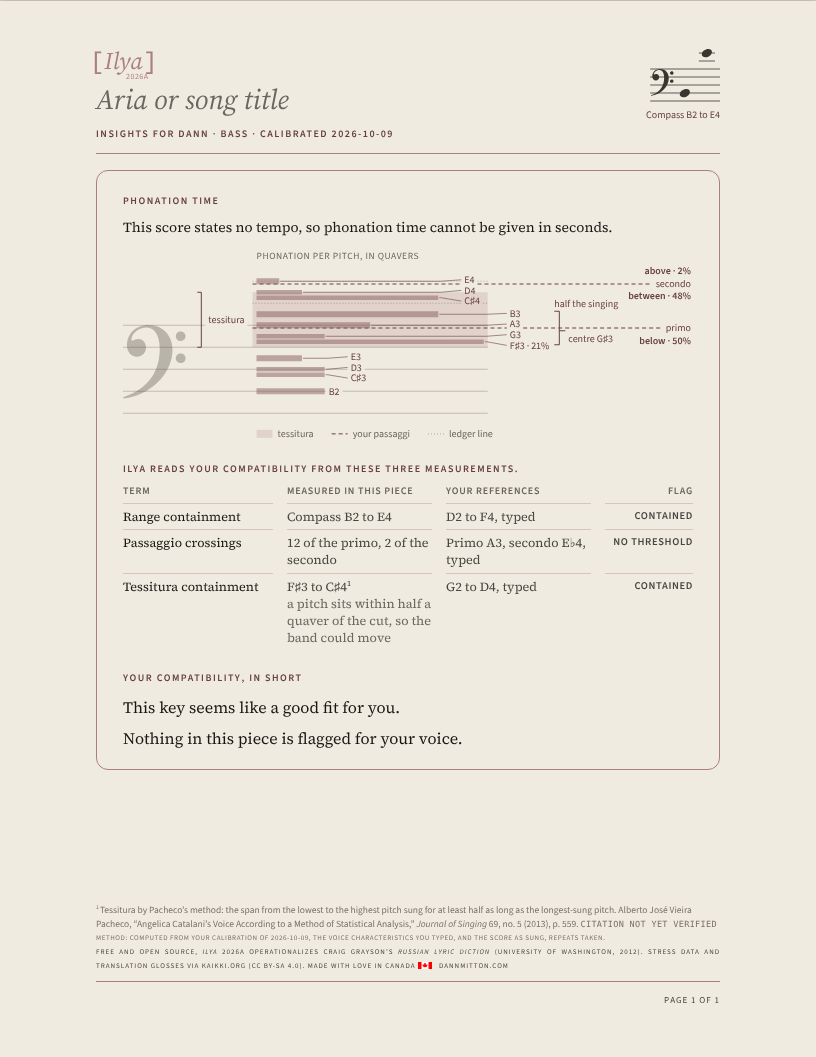
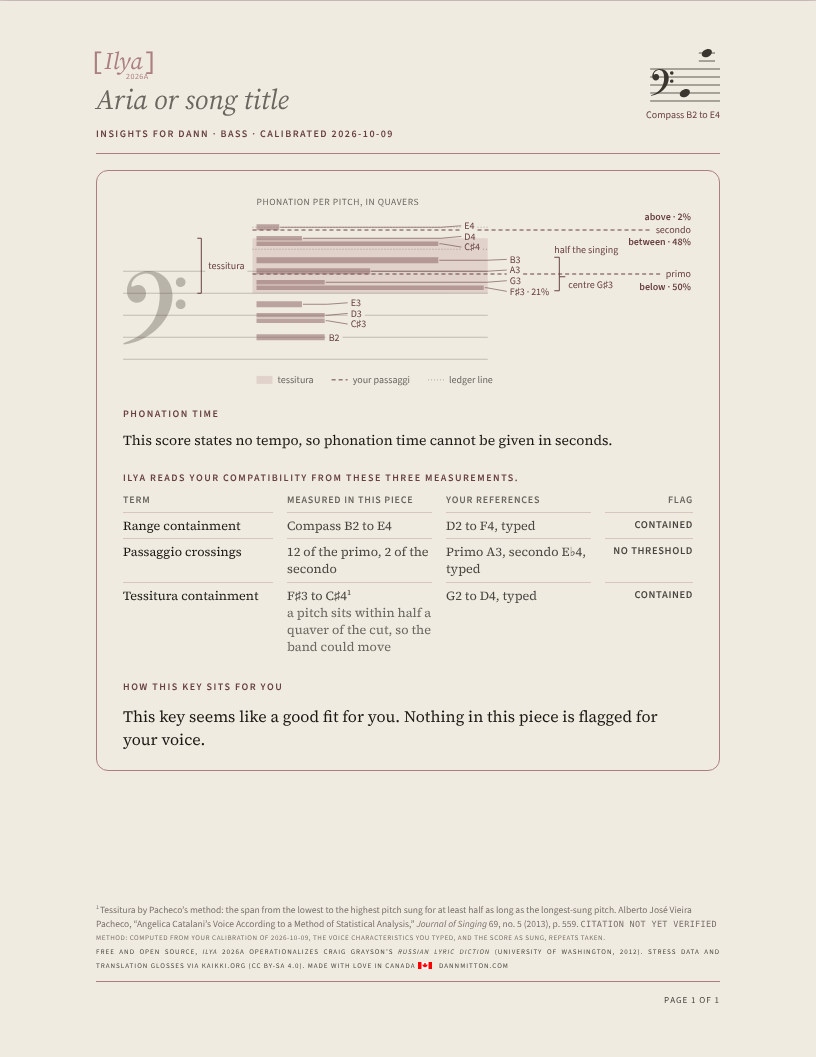
Insights: heading A; a doubtful bar no longer withholds a tessitura band it cannot move
The closing-verdict heading is « How this key sits for you » / « Comment cette
tonalité vous convient » (Dann's option A). The tessitura band is cut again under
every reading of each doubtful bar (as written, by fractions, by the metre, absent)
and prints when all agree, so Without Sun, no. 1 keeps its band despite bar 17.
Gates were running when this was committed; results follow.

Claude-Session: https://claude.ai/code/session_019P1MPvwcTrLUvq8BLtQkzW

Changed region(s): [[0.1532, 0.1873, 0.8578, 0.7181], [0.1532, 0.1873, 0.2757, 0.2185], [0.7966, 0.3122, 0.8578, 0.3434]]

diff --git a/apps/web/src/lib/insights/tessitura-robust.ts b/apps/web/src/lib/insights/tessitura-robust.ts
@@ -1,0 +1,73 @@
+/**
+ * Does one doubtful bar move the tessitura? (Dann, 2026-10-09: "I'm troubled
+ * that one bar's miscount disrupts our whole system for tessitura
+ * identification. Can't we lessen or obviate the impact of an anomalous bar?")
+ *
+ * Until now a single bar the metre contradicts withheld the whole band
+ * (`tessituraRow`), on the reasoning that Pacheco's cut can turn on half a
+ * quaver. That holds only where the cut does turn. Here the band is cut again
+ * under every reading of each doubtful bar the score itself offers:
+ *
+ *   1. as written, the notation reading `aggregatePhonation` chose;
+ *   2. as the parser's fractions give it;
+ *   3. as the time signature says it should be (the bar's pitches kept in the
+ *      same proportions, scaled to the metre);
+ *   4. the bar absent altogether, each doubtful bar alone and all together.
+ *
+ * The band stands only if every one of those cuts gives the same two ends. A
+ * bar the parser could not close has, by those readings, a length somewhere
+ * between nothing and what it asks, so a band the readings all agree on does
+ * not depend on the bar. Where any cut moves, the caller withholds as before.
+ *
+ * What this is not: a proof. Where the metre itself was misread (an OMR read
+ * that states 6/8 as 4/8), the true bar may lie outside these readings, and the
+ * page keeps naming the doubtful bars elsewhere (`untrustedMeasures`). Pure.
+ */
+import { aggregatePhonation, pachecoTessitura, type Fraction, type ParsedScore, type TessituraResult } from '@ilya/score-parser';
+
+const add = (a: Fraction, b: Fraction): Fraction => ({
+	numerator: a.numerator * b.denominator + b.numerator * a.denominator,
+	denominator: a.denominator * b.denominator,
+});
+const mul = (a: Fraction, b: Fraction): Fraction => ({ numerator: a.numerator * b.numerator, denominator: a.denominator * b.denominator });
+const ratio = (num: Fraction, den: Fraction): Fraction | null =>
+	den.numerator > 0 ? { numerator: num.numerator * den.denominator, denominator: num.denominator * den.numerator } : null;
+
+/**
+ * The band at the bars' written time, if and only if it is the same band under
+ * every reading above; otherwise undefined.
+ */
+export function bandStableUnderDoubt(score: ParsedScore, doubtful: ReadonlySet<number>): TessituraResult | undefined {
+	const totals = aggregatePhonation(score);
+	const trusted = aggregatePhonation({ ...score, vocalLine: score.vocalLine.filter((ev) => !doubtful.has(ev.measureIndex)) }).byPitch;
+	const bars = totals.trust.bars.filter((b) => doubtful.has(b.measureIndex));
+	const own = new Map(bars.map((b) => [b.measureIndex, aggregatePhonation({ ...score, vocalLine: score.vocalLine.filter((ev) => ev.measureIndex === b.measureIndex) }).byPitch]));
+
+	const bandWith = (factorOf: (bar: (typeof bars)[number]) => Fraction | null): TessituraResult | undefined => {
+		const combined = new Map<number, Fraction>(trusted);
+		for (const bar of bars) {
+			const f = factorOf(bar);
+			if (!f) continue;
+			for (const [midi, q] of own.get(bar.measureIndex)!) {
+				const scaled = mul(q, f);
+				combined.set(midi, combined.has(midi) ? add(combined.get(midi)!, scaled) : scaled);
+			}
+		}
+		return pachecoTessitura(combined);
+	};
+
+	const ONE: Fraction = { numerator: 1, denominator: 1 };
+	const written = bandWith(() => ONE);
+	if (!written) return undefined;
+	const readings: Array<(bar: (typeof bars)[number]) => Fraction | null> = [
+		(bar) => ratio(bar.fractionSum, bar.notationSum),
+		(bar) => (bar.expected ? ratio(bar.expected, bar.notationSum) : ONE),
+		() => null,
+		...bars.map((one) => (bar: (typeof bars)[number]) => (bar.measureIndex === one.measureIndex ? null : ONE)),
+	];
+	for (const reading of readings) {
+		const other = bandWith(reading);
+		if (!other || other.low !== written.low || other.high !== written.high) return undefined;
+	}
+	return written;
+}

diff --git a/apps/web/src/lib/insights/insights.test.ts b/apps/web/src/lib/insights/insights.test.ts
@@ -143,7 +143,10 @@ describe('N.127 the fit table', () => {
 		expect(m.verdict).toBe('outside-tessitura');
 	});
 
-	it('withholds the tessitura, and names the bar, when a measure does not add up', () => {
+	/* A DOUBTFUL BAR WITHHOLDS THE BAND ONLY WHERE IT COULD MOVE IT (Dann, 2026-10-09).
+	   The band is cut again with the bar at 0, a half, once, one and a half, and twice its
+	   written time, and prints only if it is the same band at every one. */
+	it('prints the tessitura, unchanged, when a measure does not add up but no misreading of it moves the band', () => {
 		// Bar 2's first note becomes a half by notation and three quarters by its
 		// parser fraction. The bar then sums to 5/4 one way and 6/4 the other:
 		// the readings disagree and neither closes 4/4.
@@ -153,6 +156,26 @@ describe('N.127 the fit table', () => {
 				: ev,
 		);
 		const m = buildInsights({ analysisScore: score(bad, 3), profile, watchList: null });
+		const clean = buildInsights({ analysisScore: score(line, 3), profile, watchList: null });
+		expect(m.phonation.untrustedMeasures).toEqual(['2']);
+		expect(m.tessitura.withheldFor).toBeNull();
+		expect(m.tessitura.measured?.low).toEqual(clean.tessitura.measured?.low);
+		expect(m.tessitura.measured?.high).toEqual(clean.tessitura.measured?.high);
+		expect(m.tessitura.flag).toBe(clean.tessitura.flag);
+	});
+
+	it('withholds the tessitura, and names the bar, when a misreading of that bar could move the band', () => {
+		// D3 sings 8 quavers in bar 1 and 8 in bar 3; bar 2 holds the only G3 and does not add up
+		// (5/4 by notation, 6/4 by fraction). With the bar absent the band is D3 alone; with it, D3 to G3.
+		const dd = (id: string, bar: number, pos: number) => note(id, bar, pos, P('D', 3));
+		const gg = (id: string, pos: number, d?: VocalLineEvent['duration']) => note(id, 1, pos, P('G', 3), d);
+		const bad = [
+			dd('a', 0, 0), dd('b', 0, 1), dd('c', 0, 2), dd('d', 0, 3),
+			gg('e', 0, { ...HALF, fraction: { numerator: 3, denominator: 4 } }), gg('f', 2), gg('g', 3), gg('x', 3),
+			dd('h', 2, 0), dd('i', 2, 1), dd('j', 2, 2), dd('k', 2, 3),
+		];
+		const m = buildInsights({ analysisScore: score(bad, 3), profile, watchList: null });
+		expect(m.phonation.untrustedMeasures).toEqual(['2']);
 		expect(m.tessitura.measured).toBeNull();
 		expect(m.tessitura.withheldFor).toEqual(['2']);
 		expect(m.tessitura.flag).toBeNull();

diff --git a/apps/web/src/lib/insights/insights.ts b/apps/web/src/lib/insights/insights.ts
@@ -42,6 +42,7 @@ import {
 	type VoiceProfileSnapshot,
 	type VowelForEvent,
 } from '@ilya/score-parser';
+import { bandStableUnderDoubt } from './tessitura-robust';
 import { centreOfGravity, cycleDose, halfMassBand, type CentreOfGravity, type CycleDose, type HalfMassBand } from './singing-measures';
 import type { WatchEntry, WatchKind, WatchList, WatchTransposition } from '$lib/analysis/watchlist';
 import { gateBand, gatedWatchList } from '$lib/analysis/gates';
@@ -354,9 +355,14 @@ function tessituraRow(
 
 	/* TRUST FIRST. `aggregatePhonation` includes an untrusted bar's time in
 	   `byPitch` and says so rather than dropping it. The band is cut from
-	   those durations, so a band built on a bar the metre contradicts is not
-	   printed, and the row names the bars instead (brief §5). */
-	if (totals.trust.untrustedBars > 0) {
+	   those durations, so a band that a bar the metre contradicts could move is
+	   not printed, and the row names the bars instead (brief §5). A bar that
+	   cannot move it does not withhold it (Dann, 2026-10-09): the band is cut
+	   again with each doubtful bar at 0 to twice its written time, and prints
+	   only if it is the same band at every one (`tessitura-robust.ts`). */
+	const doubtful = totals.trust.untrustedBars > 0 ? new Set(totals.trust.untrustedMeasureIndices) : null;
+	const stable = doubtful ? bandStableUnderDoubt(score, doubtful) : undefined;
+	if (doubtful && !stable) {
 		return {
 			measured: null,
 			withheldFor: totals.trust.untrustedMeasureIndices.map((i) => measureNumber(score, i)),
@@ -365,7 +371,7 @@ function tessituraRow(
 		};
 	}
 
-	const band = pachecoTessitura(totals.byPitch);
+	const band = stable ?? pachecoTessitura(totals.byPitch);
 	if (!band) return { measured: null, withheldFor: null, reference, flag: null };
 
 	/* SPELLED AS THE SCORE SPELLS IT. The band's ends are MIDI numbers, and a

diff --git a/apps/web/src/lib/i18n.ts b/apps/web/src/lib/i18n.ts
@@ -1621,8 +1621,9 @@ const strings: Record<string, Record<Language, string>> = {
 	'insights.flag.below':         { en: 'Below',                        fr: 'En dessous' },
 	'insights.flag.wider':         { en: 'Wider',                        fr: 'Plus large' },
 	'insights.flag.noThreshold':   { en: 'No threshold',                 fr: 'Aucun seuil' },
-	// The closing verdict's heading, ratified by Dann 2026-10-09 01:47 in both languages (`docs/memory/OPEN.md`, "THE INSIGHTS PAGE, REARRANGED").
-	'insights.verdict.heading':    { en: 'Your compatibility, in short', fr: 'Votre compatibilité, en bref' },
+	// The closing verdict's heading. "Your compatibility, in short" (ratified 2026-10-09 01:47) was replaced the same morning
+	// for a warmer register: Dann chose option A of three, English and French, 2026-10-09 (`docs/memory/OPEN.md`, "THE INSIGHTS PAGE, REARRANGED").
+	'insights.verdict.heading':    { en: 'How this key sits for you', fr: 'Comment cette tonalité vous convient' },
 	'insights.verdict.fit':        { en: 'This key seems like a good fit for you.', fr: 'Cette tonalité semble vous convenir.' },
 	'insights.verdict.outsideRange': { en: 'This key takes the piece outside the range you typed.', fr: 'Cette tonalité place la pièce hors de l\u2019ambitus que vous avez indiqué.' },
 	'insights.verdict.outsideTessitura': { en: 'The compass fits the range you typed, but the piece sits outside the tessitura you typed.', fr: 'L\u2019ambitus de la pièce entre dans celui que vous avez indiqué, mais la pièce se situe hors de la tessiture que vous avez indiquée.' },

diff --git a/apps/web/e2e/insights-page.test.ts b/apps/web/e2e/insights-page.test.ts
@@ -96,7 +96,7 @@ test('page one runs phonation, compatibility, the closing verdict, then the find
 	await openInsights(page, 'en');
 	const headings = await page.locator('.insights-container .paper-page').first().locator('.section-head, .section h2, .section .head').allTextContents();
 	const text = (await page.locator('.insights-container .paper-page').first().innerText()).replace(/\s+/g, ' ');
-	const order = ['Phonation time', 'compatibility from these three measurements', 'Your compatibility, in short'].map((w) => text.toLowerCase().indexOf(w.toLowerCase()));
+	const order = ['Phonation time', 'compatibility from these three measurements', 'How this key sits for you'].map((w) => text.toLowerCase().indexOf(w.toLowerCase()));
 	expect(order.every((i) => i >= 0), `the three headings are on page one: ${JSON.stringify(headings)}`).toBe(true);
 	expect([...order].sort((a, b) => a - b)).toEqual(order);
 	// The histogram sits between the phonation sentence and the compatibility table.

diff --git a/docs/sessions/report-code-insights-page-rearranged_r1_2026-10-09.md b/docs/sessions/report-code-insights-page-rearranged_r1_2026-10-09.md
@@ -66,3 +66,13 @@ Gate 4 moved by +20 in this brief: +9 in `tessituragram-layout.test.ts` (29 test
 - **That the leaders read well to Dann.** The hairlines in a crowded run are the part of this I would want him to look at first. If they read as noise, the alternative on the table is shorter bars' labels at the bar's end with an angled leader to a free slot, which `slotWithLeader` already does for "half the singing" and "centre"; it failed on dense runs in this build.
 - **Print.** `e2e/print-pages.test.ts` (row 59) still passes with this page, so an Insights print holds the pages it numbers. I did not look at a printed Insights page 2 holding the cycle dose.
 - **Page two and three.** Pages 2 and 3 were not rearranged beyond the dose; I checked that they still draw, not their layout.
+
+## Round two, after Dann's walk of 2026-10-09 (later that morning)
+
+Dann's rulings: the histogram leads the page and the phonation sentence moves under it, above the compatibility table; the verdict and "nothing flagged" are one paragraph; the closing-verdict heading is **option A**, « How this key sits for you » / « Comment cette tonalité vous convient » (`i18n.ts:1625`, replacing "Your compatibility, in short"); a subtitle that wraps keeps the legend flush right on its last line (`TitleHeader.svelte`, the `wraps` state); and the shaded tessitura band is not negotiable, so one doubtful bar must not take it away.
+
+**The tessitura and a doubtful bar.** The band used to be withheld whenever any bar failed the metre check (`tessituraRow`), because Pacheco's cut can turn on half a quaver. In *Without Sun*, no. 1 the doubtful bar is measure 17: 3/2 asks for 12 quavers, the notation reads 9/4, the parser's fractions 7/4, and it holds only E3. The new `apps/web/src/lib/insights/tessitura-robust.ts` cuts the band again under every reading the score offers of each doubtful bar: as written, as the fractions give it, as the metre asks, the bar absent, each bar alone absent. The band prints only if all give the same two ends; otherwise it is withheld as before. Measure 17's bar cannot move it, so *Without Sun* prints D3 to B♭3, the same band as the OMR read of the same song (`sun1`). Seven of eight captured songs drew the band before; now all eight do. The check is a sensitivity test over those readings, not a proof: where the metre itself was misread, the true bar may lie outside them, and the doubtful bars are still named on page two (`untrustedMeasures`).
+
+Tests: `insights.test.ts` (the old "withholds when a measure does not add up" case became two: a doubtful bar that cannot move the band prints it unchanged, and a doubtful bar that holds the only G3 still withholds it and names the bar).
+
+Gates after round two: all eight at baseline except gate 4; see the commit.
